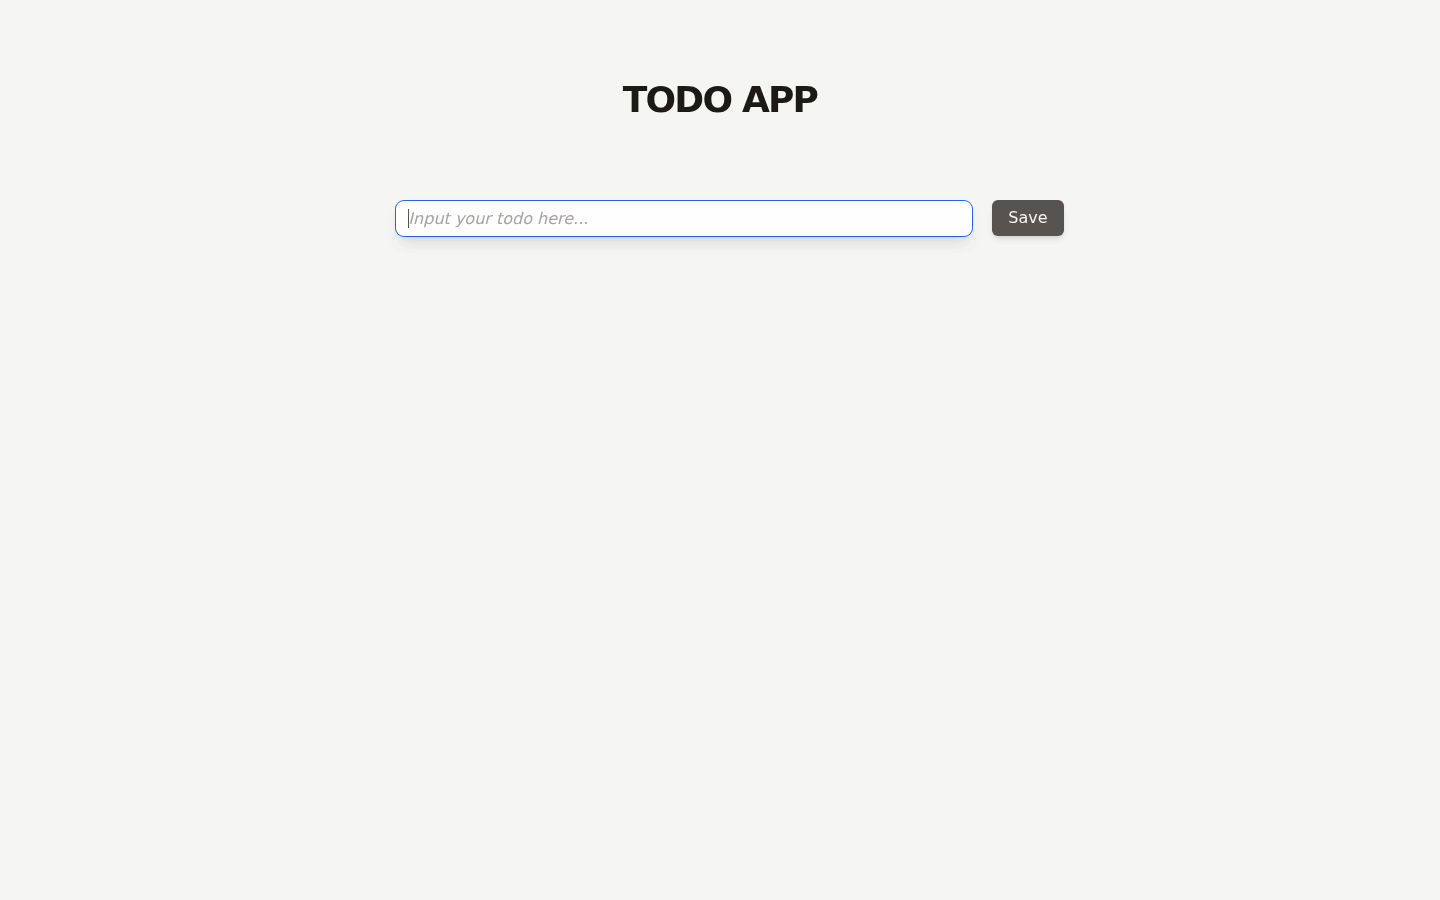
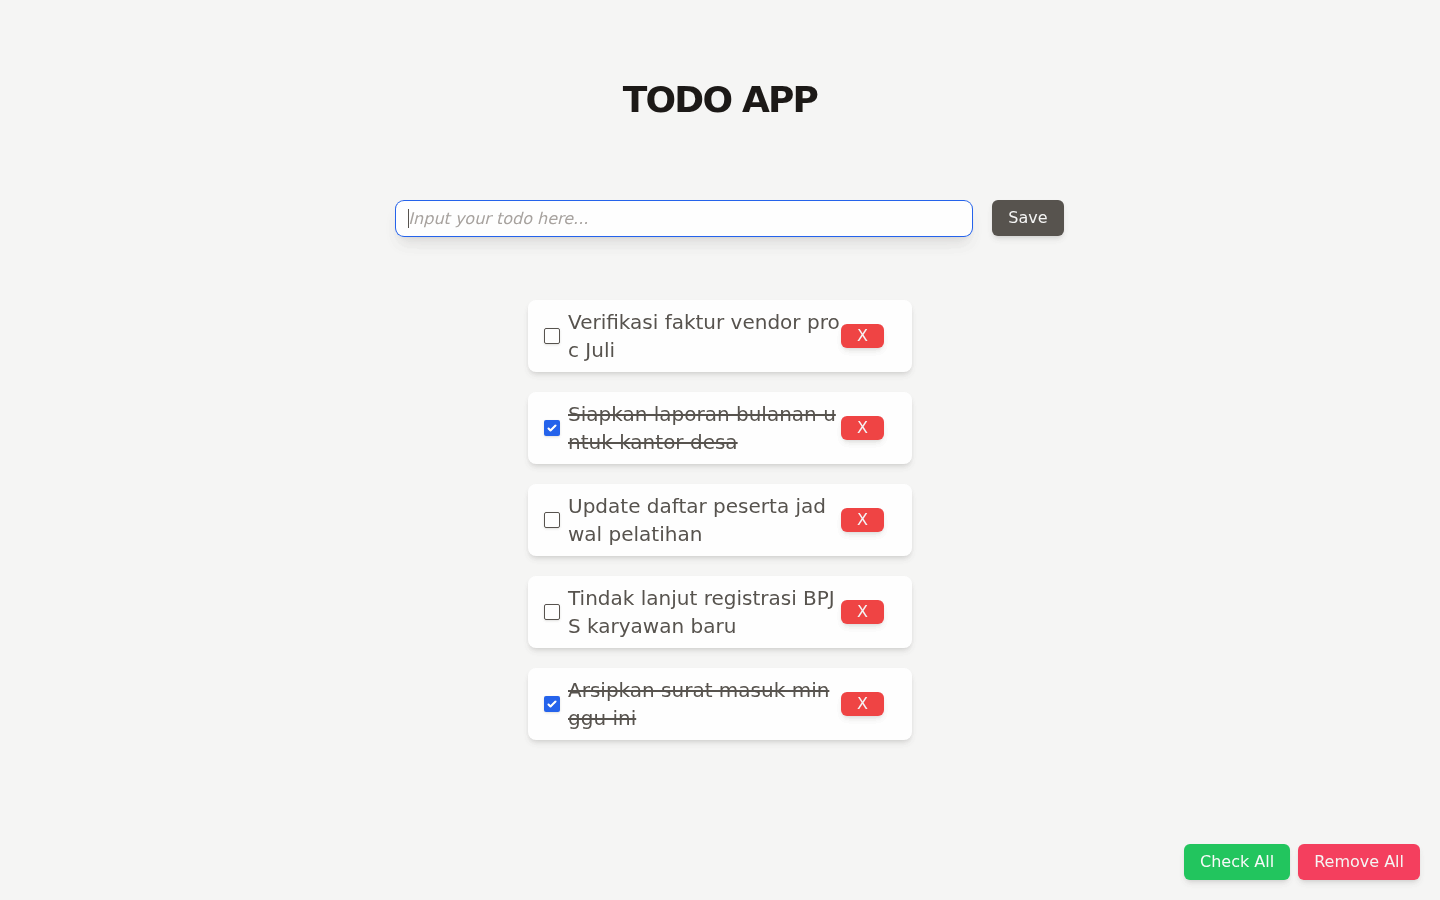
docs: show populated task list in README screenshot

diff --git a/README.md b/README.md
@@ -2,9 +2,9 @@
 
 A self-contained to-do list for one person. You add a task, tick it off when it is done, and remove it when it is no longer needed; Check All and Remove All act on the whole list at once. There is no sign-up, account, or server: the list is stored in your own browser and survives a page reload, but nothing is shared or synced between devices. It gives you a working task list with nothing to install or configure.
 
-![The Todo APP home screen: a heading, a task input with a Save button, and an empty task list](docs/screenshots/01-home.png)
+![The Todo APP home screen with a task list of five sample tasks, two already ticked off](docs/screenshots/01-home.png)
 
-The list starts empty. Check All and Remove All stay hidden until at least one task exists.
+Check All and Remove All sit at the bottom-right once at least one task exists.
 
 ## What you can do
 
@@ -31,6 +31,5 @@ You can also serve the repository root with any static HTTP server — the page 
 
 ## Limitations
 
-- There is no backend or sign-in, so tasks live only in this browser's local storage under `todos`. Clearing site data or browsing privately loses them, and they never appear on another browser or device.
-- The list ships with no starting tasks; the Check All and Remove All controls only show up once you add one.
+- The whole list lives in one browser's local storage under the key `todos`. Clearing site data or browsing privately means starting fresh, and the list never appears in another browser or on another device.
 - How the vendored Vue and Tailwind files were obtained is not recorded — there is no `package.json` — and no manifest pins the exact Vue 3 version: both `3.0.8` and `3.2.31` appear in the vendored build.
